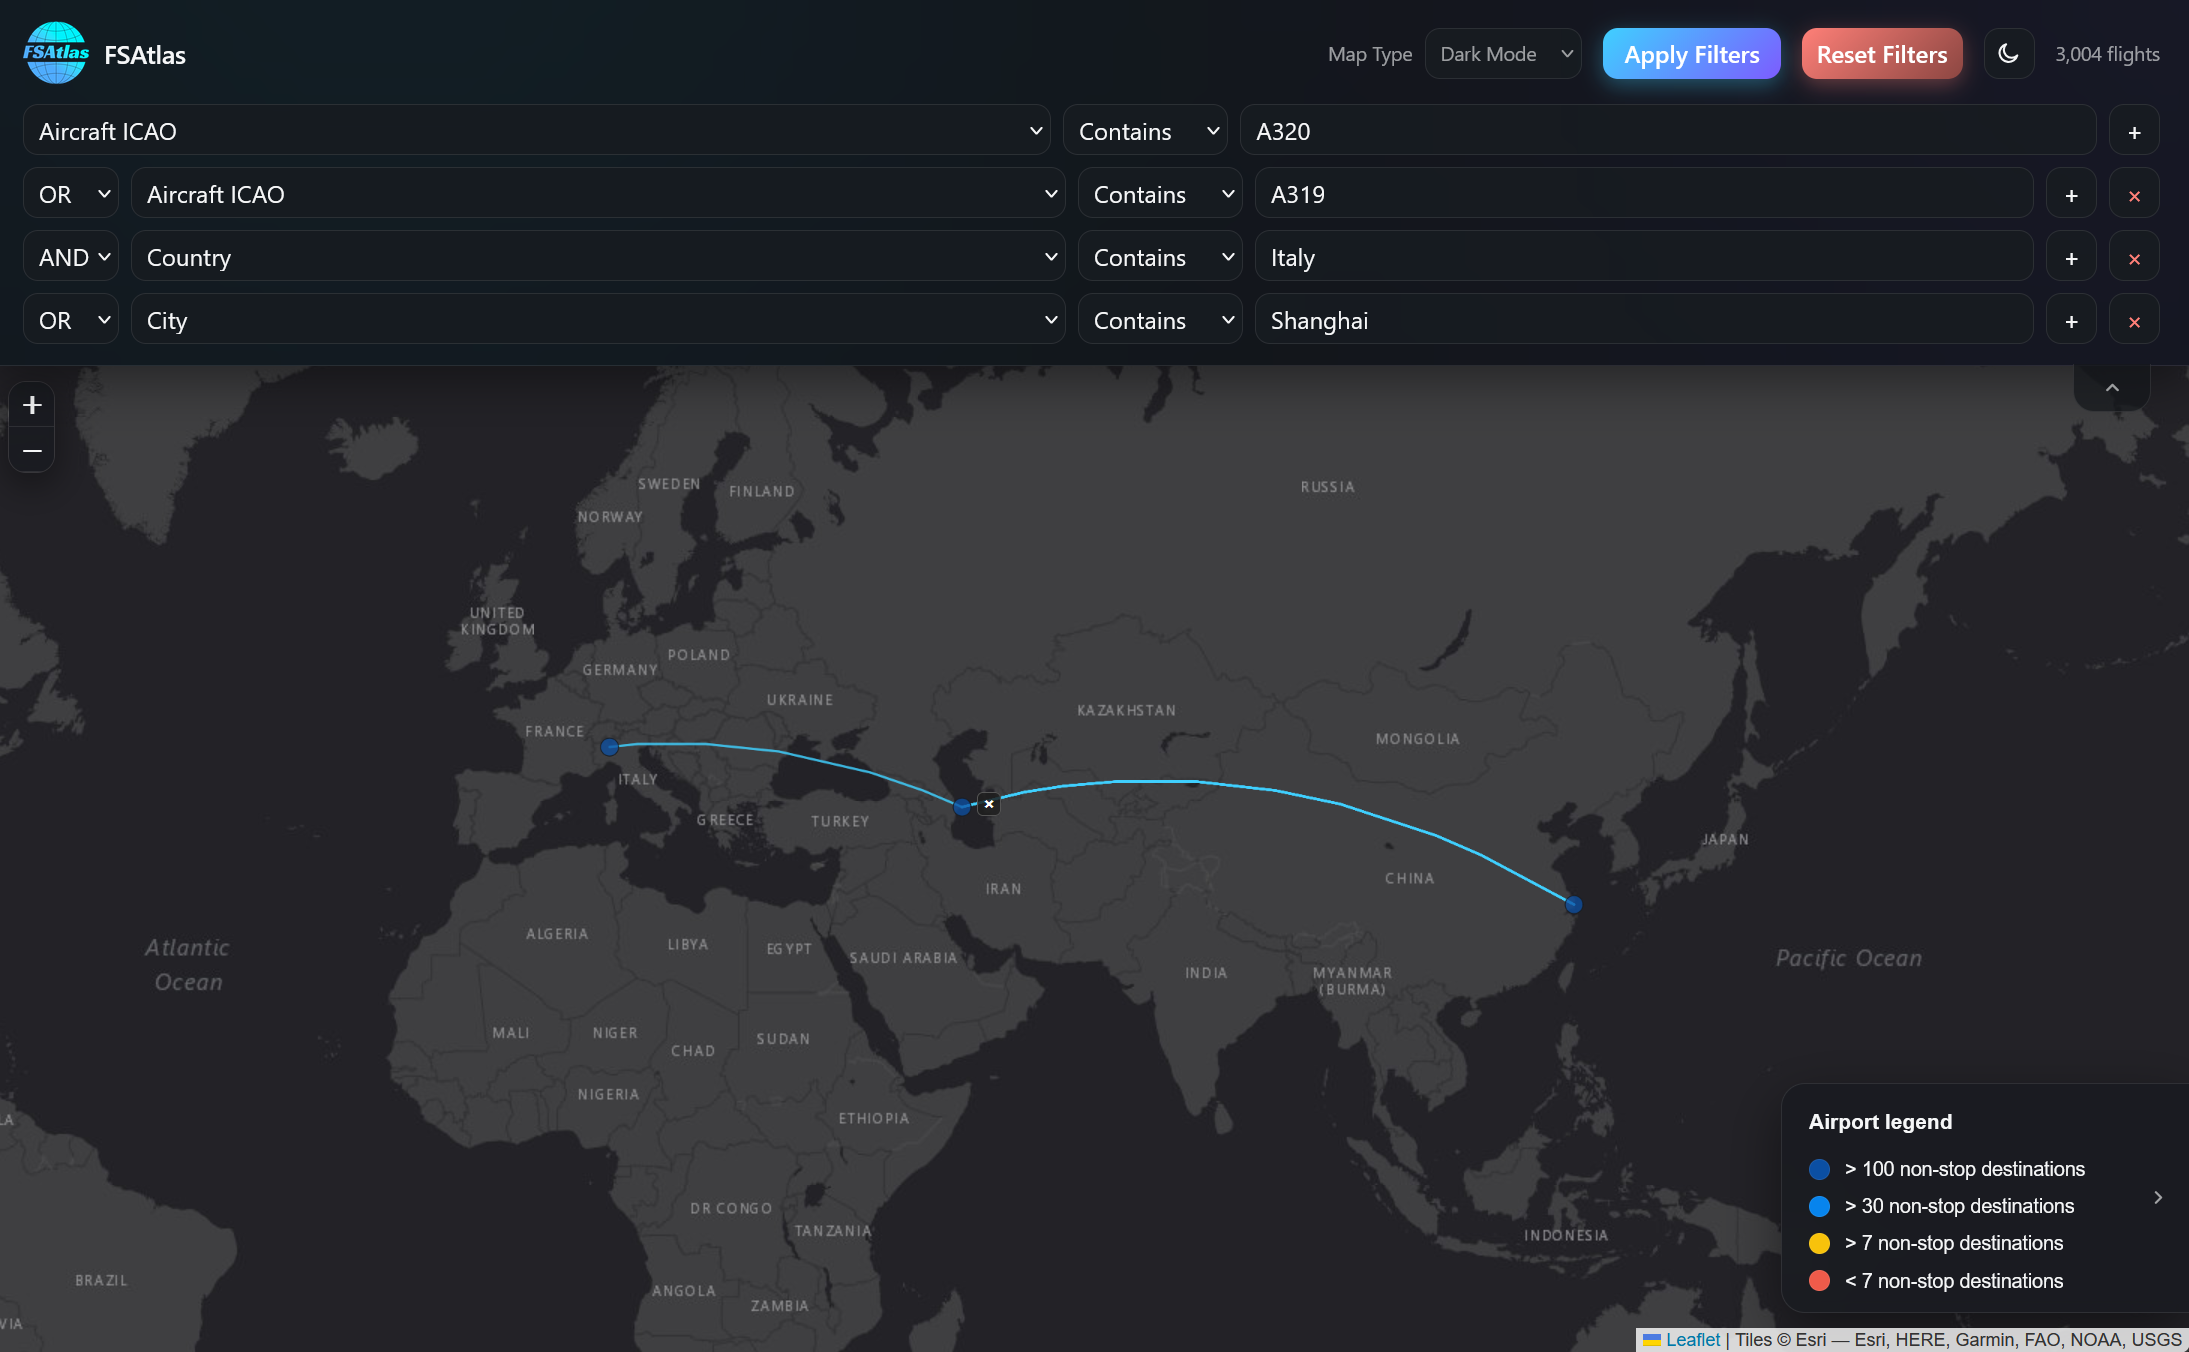
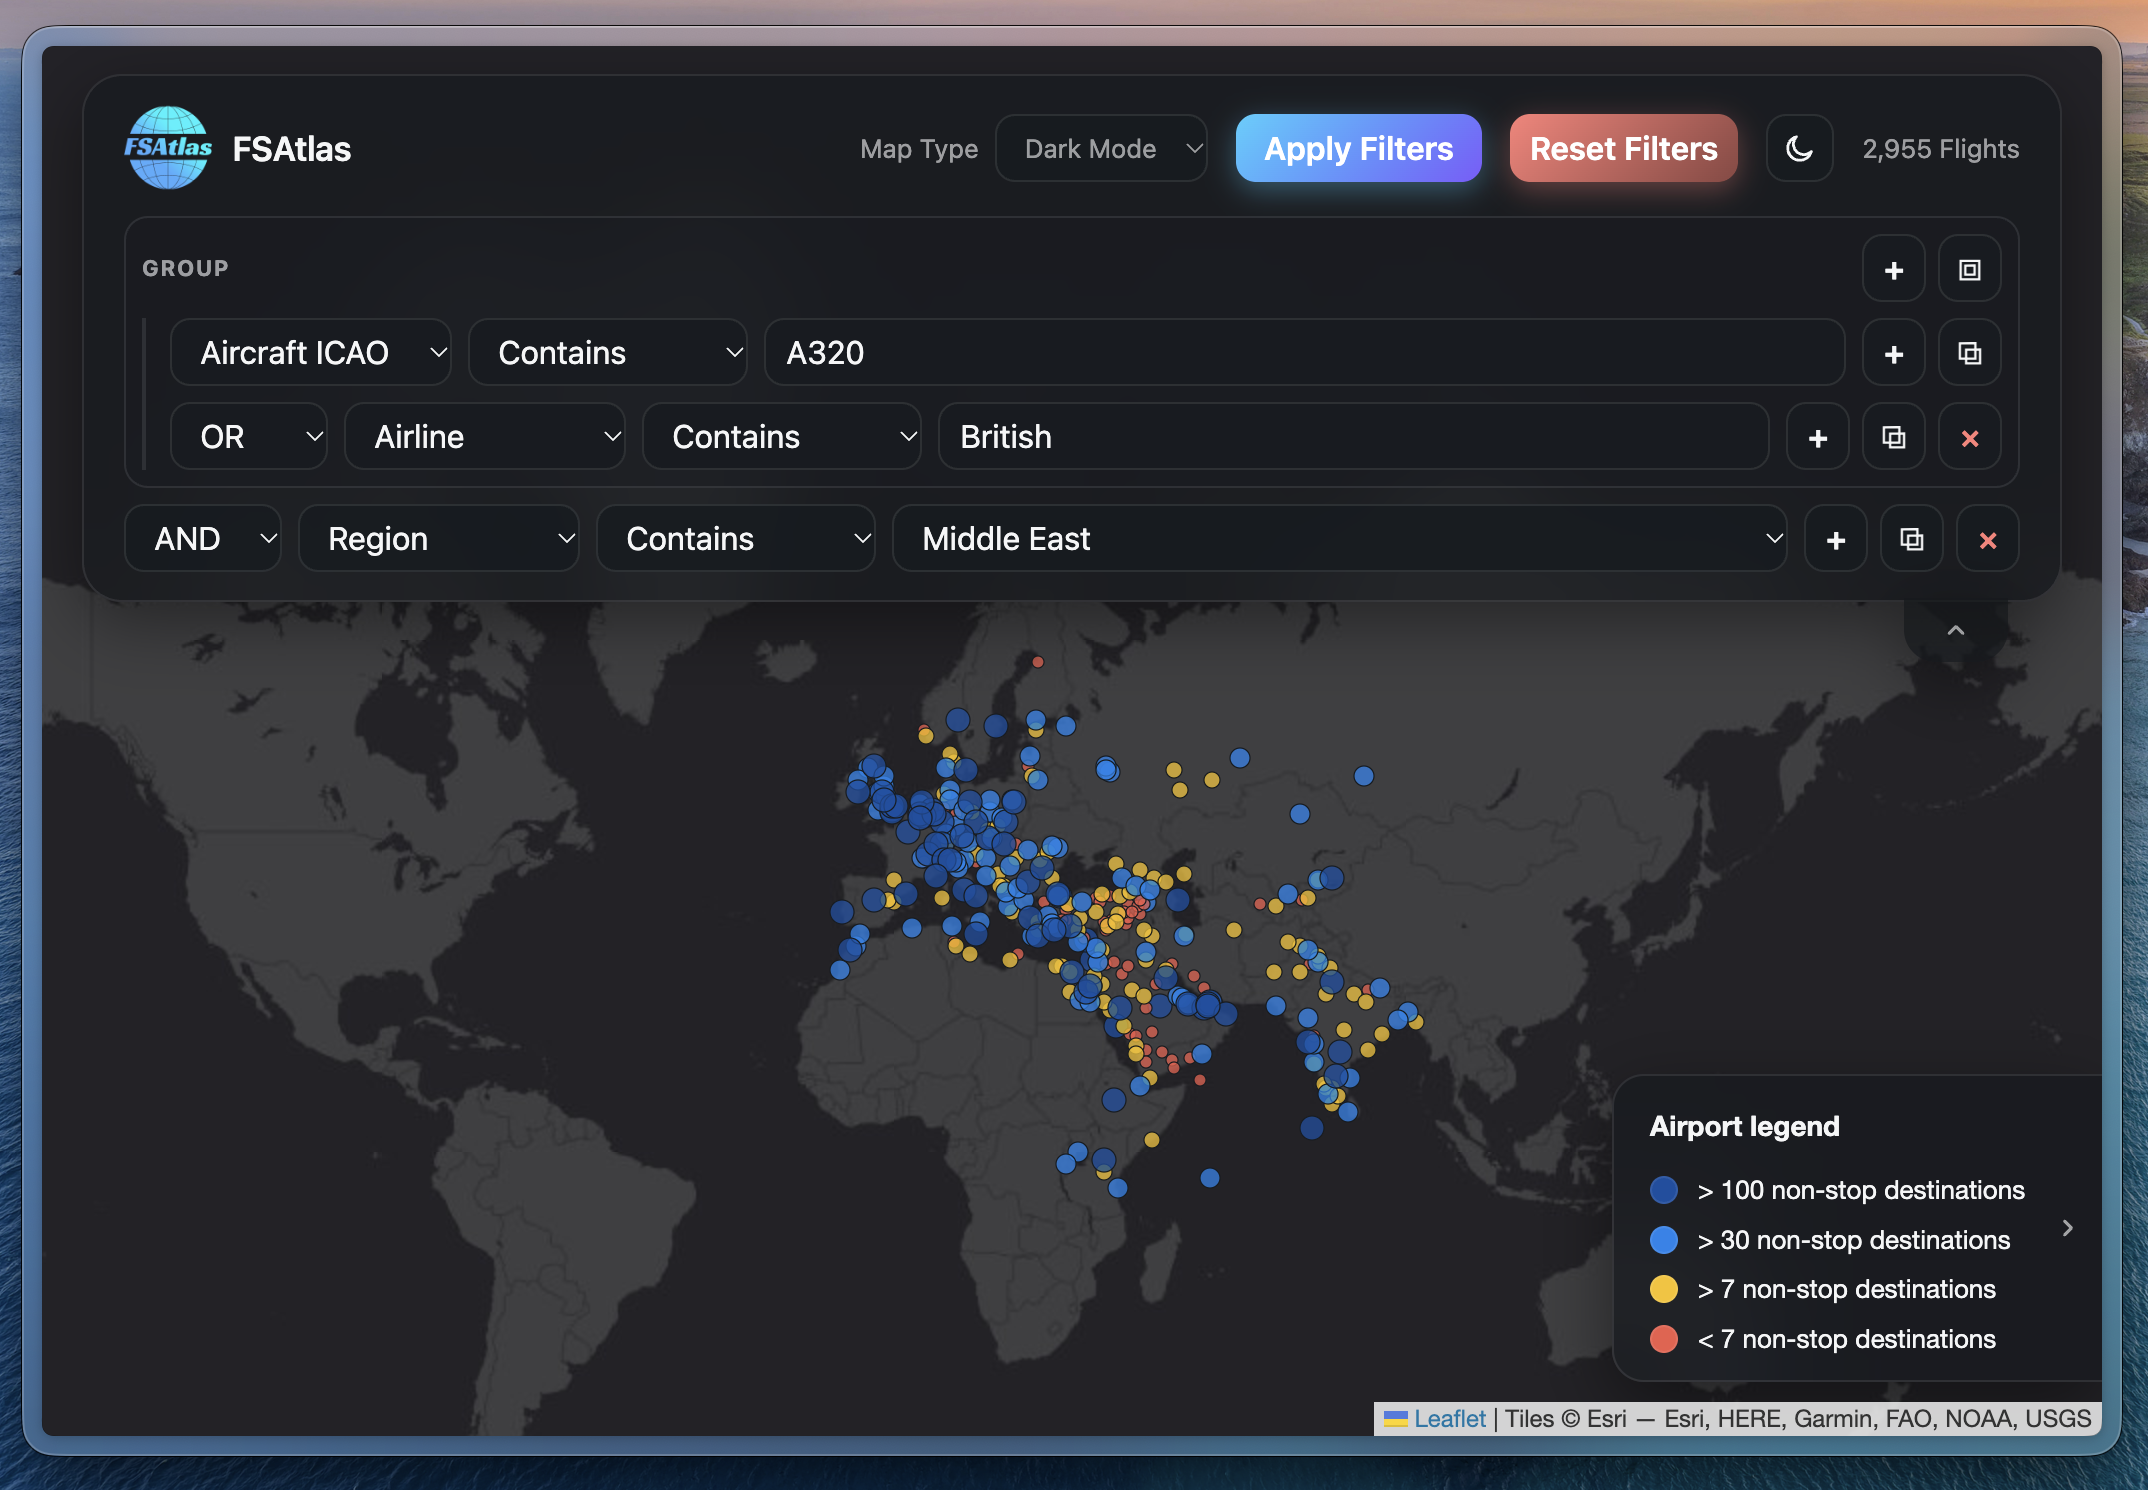
updated readme

diff --git a/README.md b/README.md
@@ -71,7 +71,7 @@ Switch between light and dark themes from the interface. The selected theme upda
 Choose between Dark Mode, Light Mode, Standard OpenStreetMap, Satellite, and Hybrid map styles. The light and dark Esri styles follow the selected theme, while the other options provide different ways to inspect the network.
 
 <p align="center">
-  <img src="images/map_types.png" alt="Map styles selector and map view" width="100%">
+  <img src="images/light_mode.png" alt="Different Map types and Dark and Light Modes" width="100%">
 </p>
 
 ### Collapsible Interface Panels
